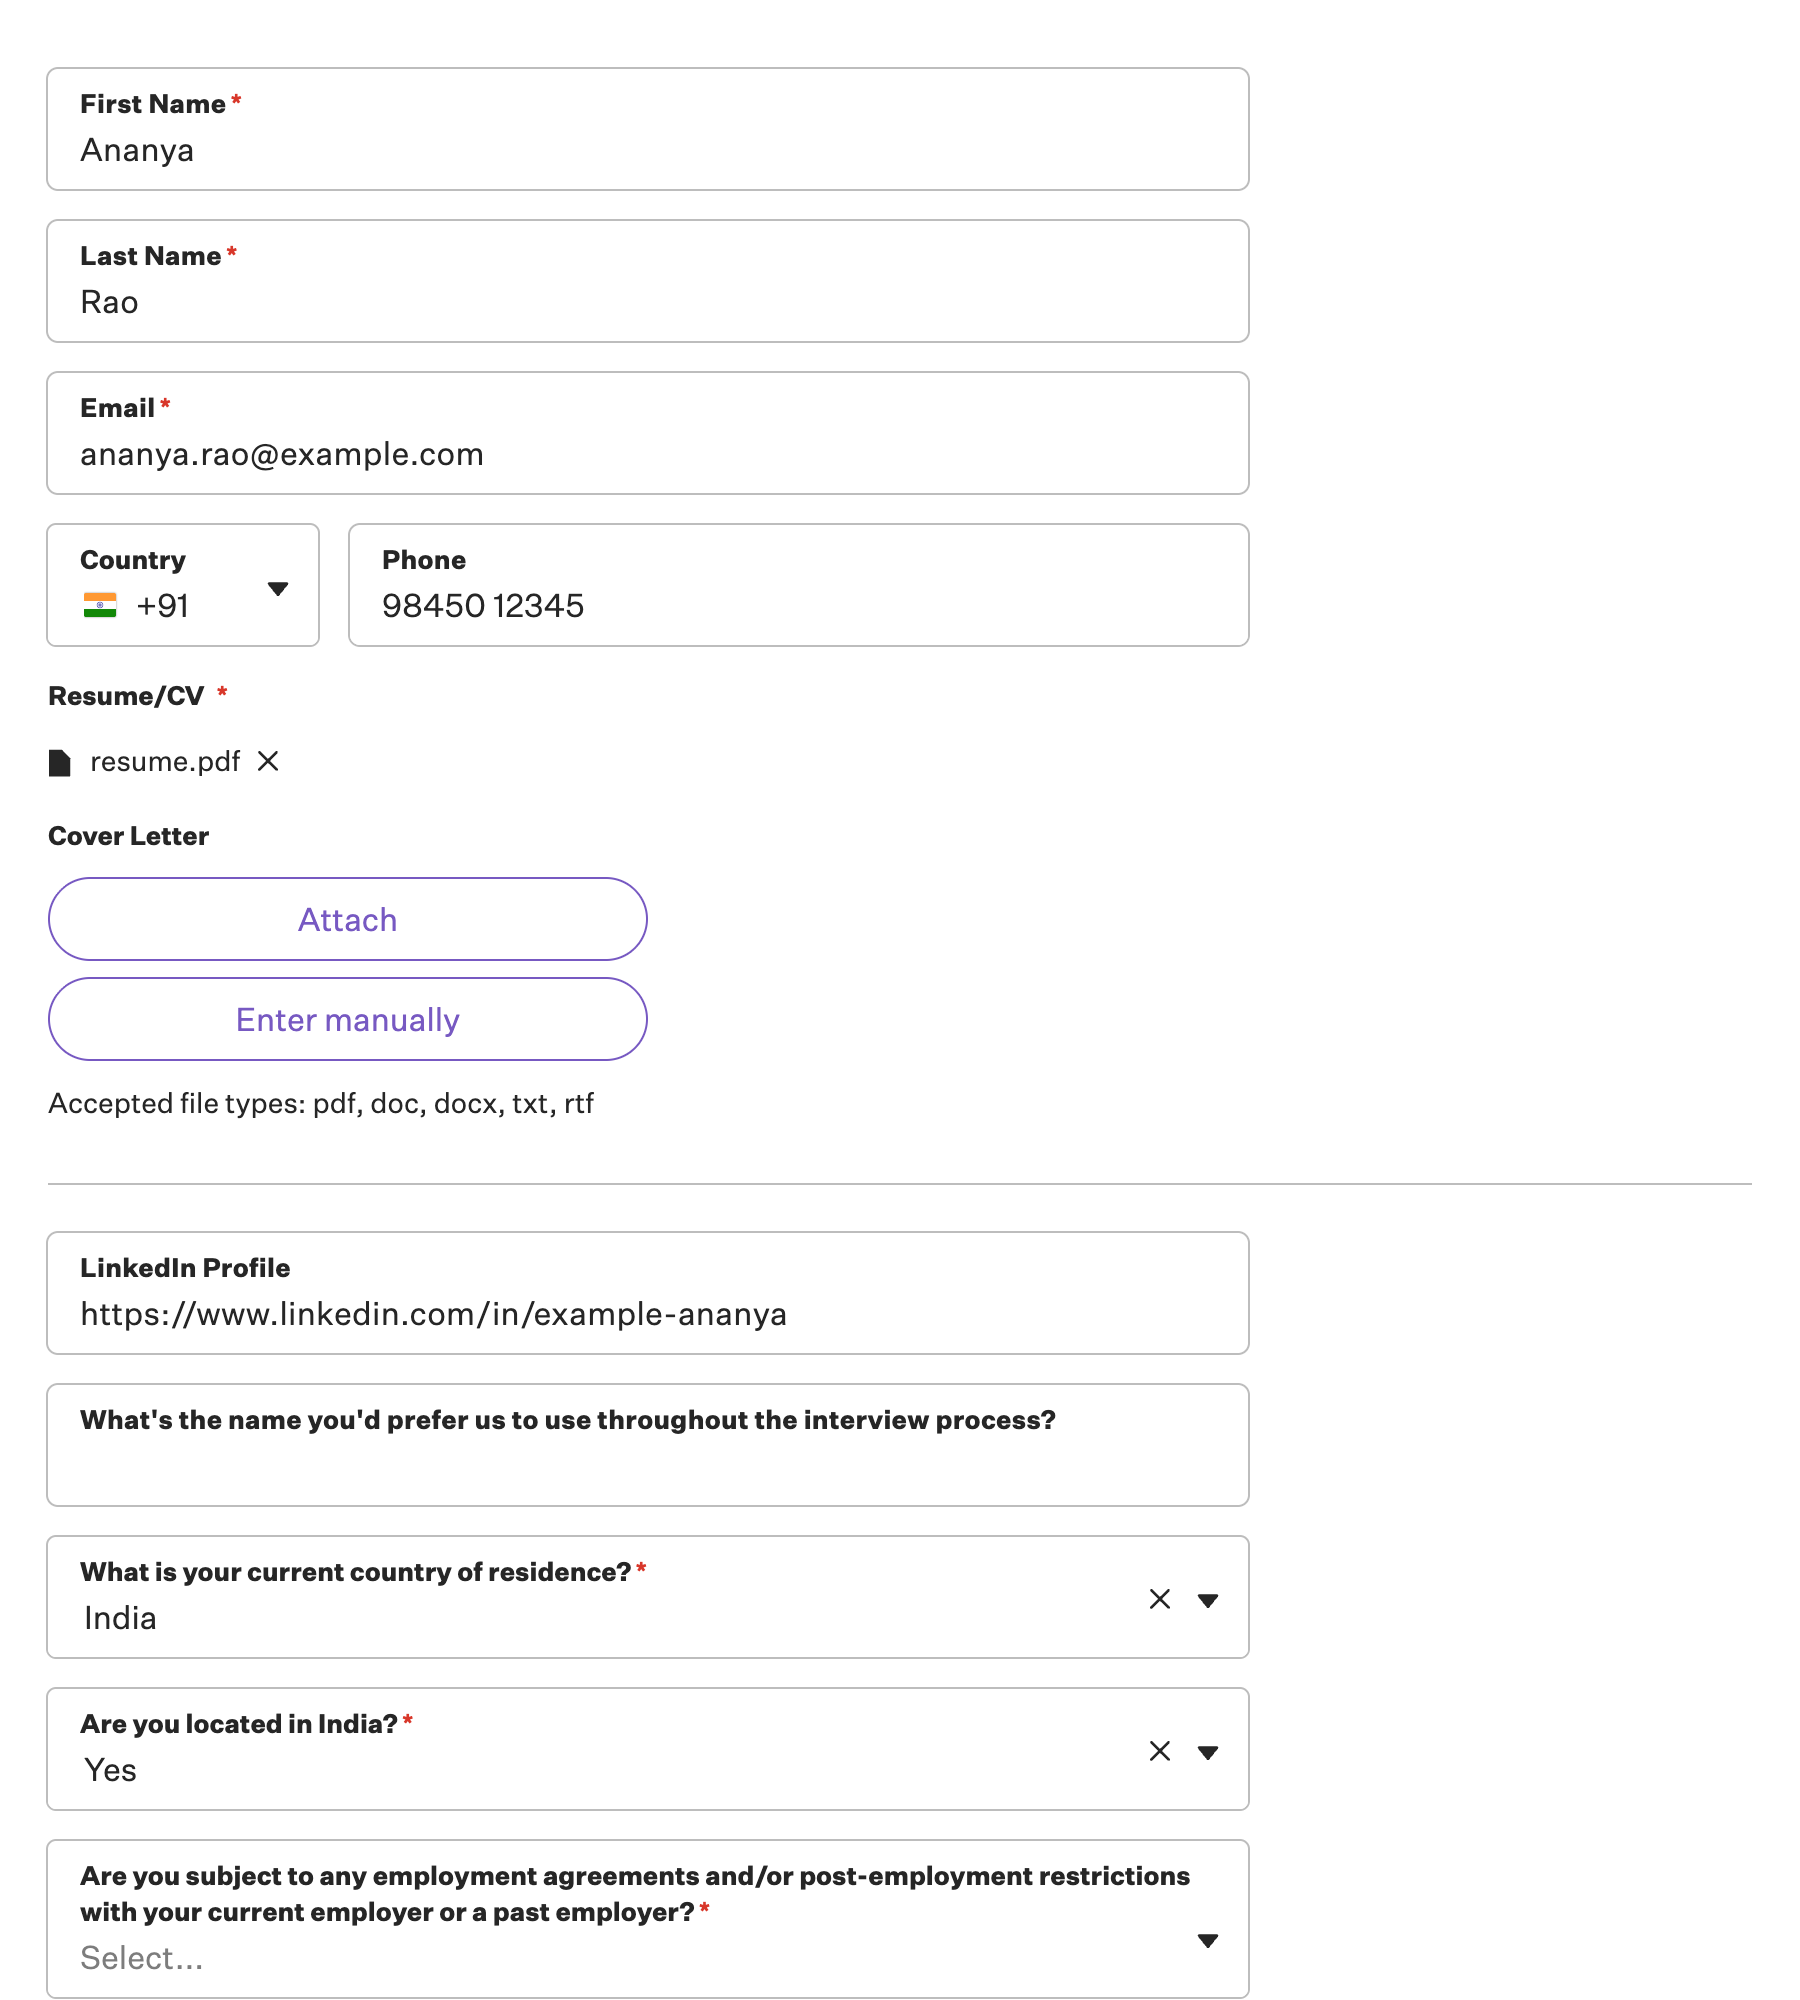
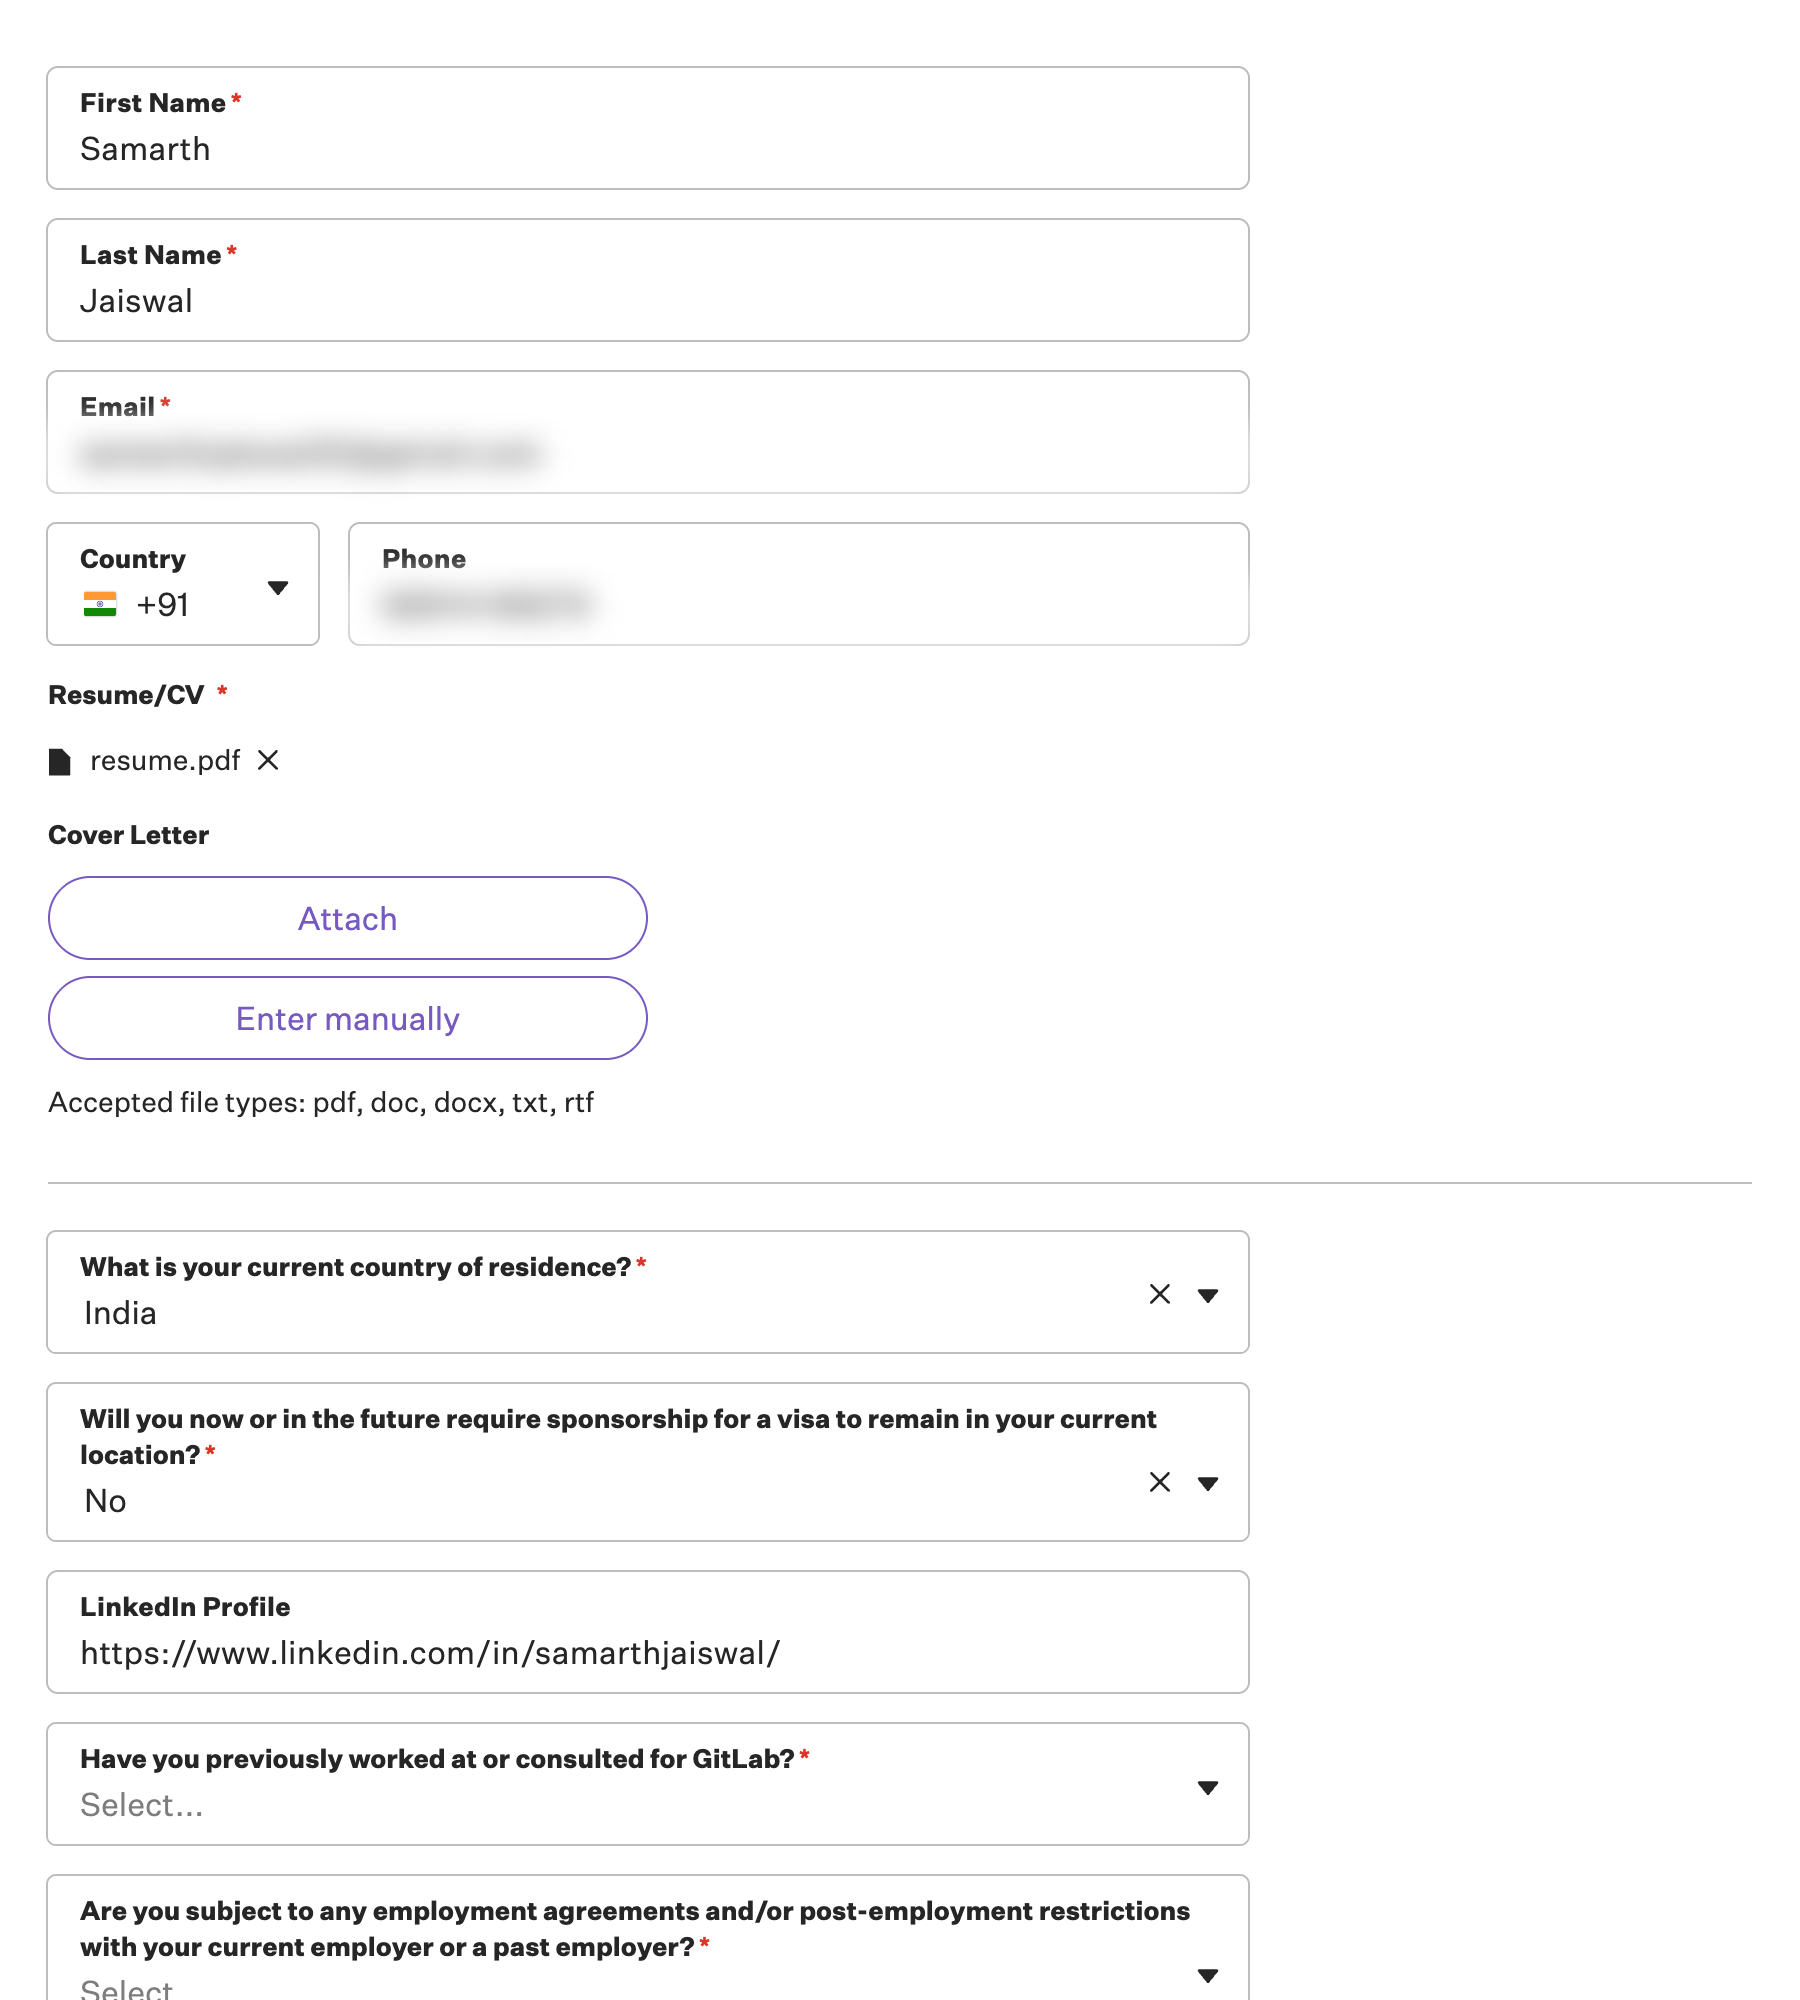
README shows my own rehearsal; never let the model answer personal questions
- The form screenshot is now GitLab's form filled from my resume, with email
  and phone blurred, instead of the made-up test candidate.
- Questions about past work at the company, referrals, relatives, employment
  agreements, consent, background checks and salary are always asked unless
  the person answered them before, even if Claude offers an answer. A capture
  run had shown Claude answering "No" to a past-GitLab question on its own.

diff --git a/src/apply/plan.ts b/src/apply/plan.ts
@@ -83,6 +83,23 @@ export function workRightConflict(label: string, value: string, profile: Profile
   return false;
 }
 
+/** Questions only the person can answer. The model is never trusted to answer these on its own. */
+const PERSONAL = /previously (worked|been employed|employed)|ever (worked|been employed)|worked (at|for) [^?]* before|former employee|relative|family member|referr|referred|non-compete|employment agreement|post-employment|restrictions? with your (current|past|previous)|background (check|verification)|consent|criminal|convicted|salary|ctc|compensation expectation/i;
+
+const sameQuestion = (a: string, b: string) => {
+  const n = (s: string) => s.toLowerCase().replace(/[^a-z0-9 ]+/g, ' ').replace(/\s+/g, ' ').trim();
+  return n(a) === n(b);
+};
+
+/** True when this answer may stand: not a personal question, or the person answered it before. */
+export function answerAllowed(label: string, profile: Profile, memory: Memory[]): boolean {
+  if (!PERSONAL.test(label)) return true;
+  if (memory.some(m => sameQuestion(m.question, label))) return true;
+  // Salary questions may use the CTC the person put in their profile.
+  if (/salary|ctc|compensation/i.test(label) && (profile.currentCtcLpa != null || profile.expectedCtcLpa != null)) return true;
+  return false;
+}
+
 export async function plan(opts: { llm: Llm; profile: Profile; job: Job; fields: Field[]; memory: Memory[]; files: { resume: string; cover: string | null } }): Promise<Step[]> {
   const { llm, profile, job, fields, memory } = opts;
   const steps: Step[] = [];
@@ -114,6 +131,9 @@ export async function plan(opts: { llm: Llm; profile: Profile; job: Job; fields:
       else if (['select', 'radio', 'checkbox'].includes(f.kind) || (f.kind === 'combobox' && f.options.length)) {
         const picked = step.value.map(v => pickOption(f.options, v));
         step = picked.every(Boolean) ? { ...step, value: picked as string[] } : { ...step, action: 'ask', value: [], source: `“${step.value.join(', ')}” is not one of the options` };
+      }
+      if (step.action === 'answer' && !answerAllowed(f.label, profile, memory)) {
+        step = { ...step, action: 'ask', value: [], source: 'only you can answer this' };
       }
       if (step.action === 'answer' && workRightConflict(f.label, step.value[0] ?? '', profile, job)) {
         step = { ...step, action: 'ask', value: [], source: 'work authorization answer disagreed with your profile' };

diff --git a/tests/check.test.ts b/tests/check.test.ts
@@ -53,3 +53,23 @@ describe('options and read-back', () => {
     expect(shows('checkbox', 'checkbox', ['India', 'Singapore'], 'India; Singapore')).toBe(true);
   });
 });
+
+import { answerAllowed } from '../src/apply/plan.ts';
+describe('questions only the person can answer', () => {
+  it('are never answered without the person, even when the model offers an answer', () => {
+    expect(answerAllowed('Have you previously worked at or consulted for GitLab?', ananya, [])).toBe(false);
+    expect(answerAllowed('Are you subject to any employment agreements and/or post-employment restrictions?', ananya, [])).toBe(false);
+    expect(answerAllowed('Do you have a relative working at Groww?', ananya, [])).toBe(false);
+    expect(answerAllowed('Were you referred by an employee?', ananya, [])).toBe(false);
+    expect(answerAllowed('Do you consent to a background verification?', ananya, [])).toBe(false);
+  });
+  it('are answered once the person has answered them before', () => {
+    const memory = [{ question: 'Have you previously worked at or consulted for GitLab?', answer: 'No', at: '' }];
+    expect(answerAllowed('Have you previously worked at or consulted for GitLab?', ananya, memory)).toBe(true);
+  });
+  it('leave ordinary questions alone, and let salary use the CTC in the profile', () => {
+    expect(answerAllowed('What is your current country of residence?', ananya, [])).toBe(true);
+    expect(answerAllowed('What is your expected CTC?', ananya, [])).toBe(true);
+    expect(answerAllowed('What is your expected CTC?', { ...ananya, currentCtcLpa: null, expectedCtcLpa: null }, [])).toBe(false);
+  });
+});

diff --git a/scripts/capture.ts b/scripts/capture.ts
@@ -48,6 +48,8 @@ if (ref && fs.existsSync(paths.profile)) {
   const fields = await scan(page);
   const steps = await plan({ llm: claude, profile: loadProfile(), job: q.job, fields, memory: [], files: { resume: paths.resume, cover: null } });
   for (const s of steps) if (s.action === 'answer') await fillOne(page, s.field, { id: s.field.id, value: s.value });
+  // The README is public: blur contact details in the screenshot.
+  await page.addStyleTag({ content: 'input[type=email], input[type=tel], input[name=email], input[name=phone], #email, #phone { filter: blur(7px); }' });
   await page.evaluate(() => window.scrollTo(0, 0));
   const first = page.locator('[data-aavedan]').first();
   const box = await first.boundingBox();

diff --git a/README.md b/README.md
@@ -38,15 +38,15 @@ aavedan find                         aavedan apply a18                         a
  A ranked queue                      and show you what would hold it
 ```
 
-A rehearsal (`apply` without `--send`) does everything except click Submit. This is a real Greenhouse form, filled in a rehearsal for a made-up test candidate:
+A rehearsal (`apply` without `--send`) does everything except click Submit. This is GitLab's real Greenhouse form, filled from my own resume in a rehearsal. My email and phone are blurred here. The two questions only I can answer are left for me:
 
-<p align="center"><img src="docs/form.png" alt="GitLab's application form on Greenhouse, filled in: name, email, the phone with India's country code, the resume attached, LinkedIn, country of residence India, located in India Yes, and an employment-agreements question left for the candidate" width="560"></p>
+<p align="center"><img src="docs/form.png" alt="GitLab's application form on Greenhouse, filled in for Samarth Jaiswal: name, blurred email and phone with India's country code, the resume attached, country of residence India, no visa sponsorship needed, LinkedIn, and the questions about past work at GitLab and employment agreements left for him to answer" width="560"></p>
 
 ## What it never does
 
 - **It never invents a fact.** Your profile (`me/profile.json`) is the only source. Every number and every proper name in a tailored resume, cover letter or written answer is checked *in code* against your profile and the posting. Anything unsupported is rewritten once, then dropped. Keywords the posting wants and your profile doesn't show are listed for you, never slipped in.
 - **It never bends your work rights to fit a form.** Questions about authorization and sponsorship are answered from your profile. Code rejects any answer that disagrees with it, and the form waits for you.
-- **It never guesses what only you know.** That covers a past job at the company, a referral, a consent, a background check, or a salary figure you haven't given. It asks you once and remembers the answer for the next form.
+- **It never guesses what only you know.** That covers a past job at the company, a referral, a relative there, an employment agreement, a consent, a background check, or a salary figure you haven't given. Code enforces it: even when Claude offers an answer to one of these, it is thrown away and you are asked. Your answer is remembered for the next form.
 - **It never sends without your yes.** At the keyboard you approve each form. In Claude Code, you approve each job by name, in the chat.
 - **It never touches a human check.** If a board shows a CAPTCHA, the form waits in its tab for you.
 - **It never works around a board that says no.** Some boards (Lever, for one) reject applications from an automated browser. aavedan then **hands off**: the tailored resume goes to your Downloads folder, an answer sheet with a Copy button for every answer opens in your own browser next to the form, and you click Submit yourself. It remembers the board, so later applications there go straight to hand-off. `aavedan done <id>` records it as sent.
@@ -116,7 +116,7 @@ A posting link from any Greenhouse, Lever or Ashby board works in place of an id
 
 ## What it costs
 
-These are measured on real runs with the made-up candidate:
+These are measured on real runs:
 
 | Step | Model | Cost |
 |---|---|---|
@@ -150,12 +150,12 @@ Everything about you stays in `me/`, which is git-ignored:
 - your records;
 - the Chrome profile the tool uses.
 
-Text goes to the Claude API only for the calls above. Tests use a made-up candidate, Ananya Rao. The live demo shows only my name, the ranked jobs and the rehearsals: no contact details or salary.
+Text goes to the Claude API only for the calls above. The live demo and the screenshots show only my name, the ranked jobs and the rehearsals: no contact details or salary. The automated tests use a made-up test profile, so no real person's data is in the code.
 
 ## Development
 
 ```bash
-npm test          # 59 tests: rules, board readers, fact check, and browser tests on local forms
+npm test          # 62 tests: rules, board readers, fact check, and browser tests on local forms
 npm run typecheck
 ```
 
